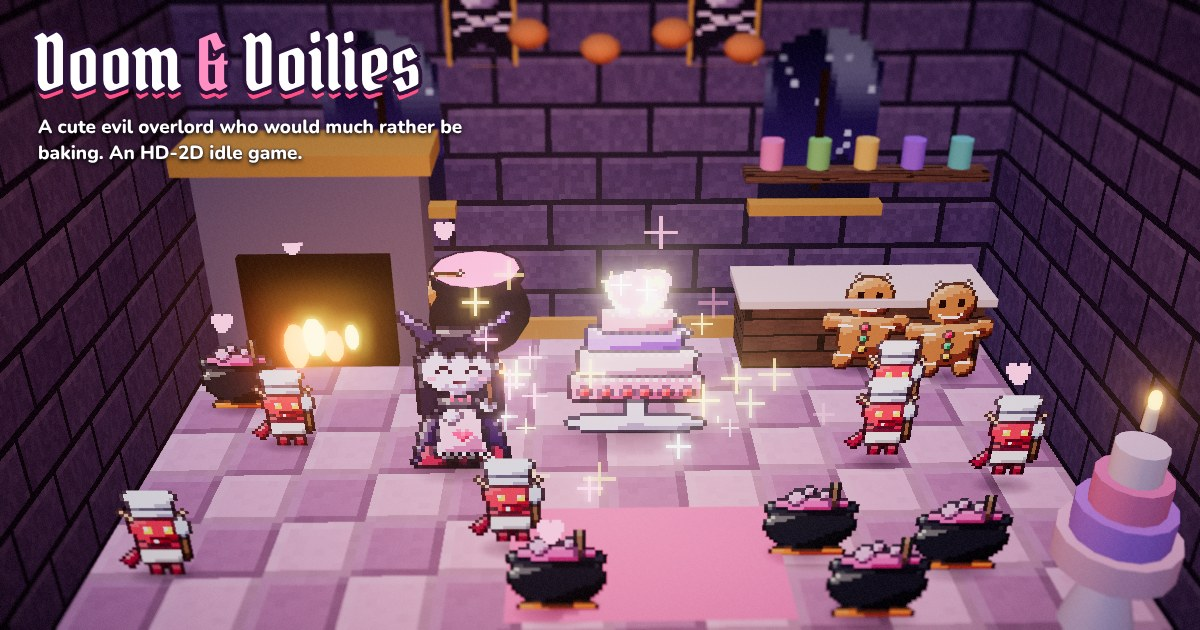
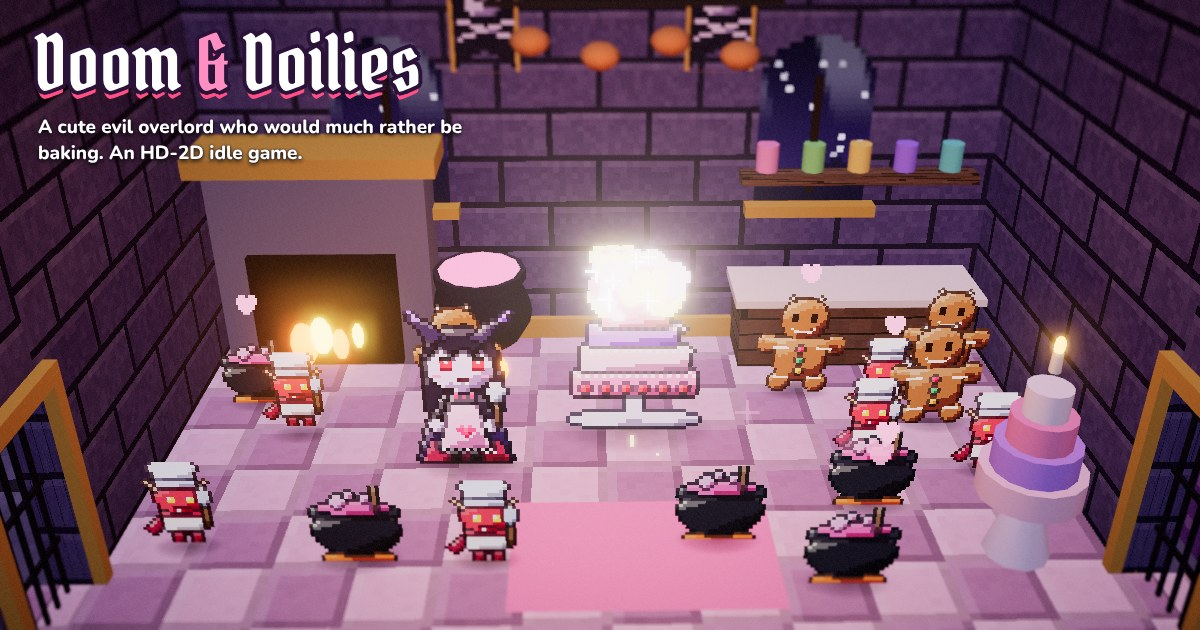
game-110 v1.0.2: visitors come and go through doorways, not walls
The rooms had no doors, and a visitor's starting point was worked out in the
Kitchen's coordinates, so in any other room they slid in from the far end of
the castle through every wall on the way.

Every side wall now has a doorway near the front, with a stone frame and a
portcullis; neighbouring rooms' doorways line up into one passage. Visitors
wait behind the next wall while the portcullis rises, walk in along a lane at
the front of the room, and leave the way they came. Front furniture and décor
moved back to keep the lane clear, and the camera frames a little more of
each room so both doorways show.

browsertest.mjs sweeps the biggest visitor along every lane against walls and
furniture, and follows a Ballroom visitor to check it stays in its room with
the gate up in the doorway; both fail without the fix.

Claude-Session: https://claude.ai/code/session_01Scowix7CJA1sqDPnfxaPEu

diff --git a/game-110/js/view/castle.js b/game-110/js/view/castle.js
@@ -12,6 +12,12 @@ import { makeSlots, SLOTS_PER_KIND } from './layout.js';
 export { SLOTS_PER_KIND };
 
 export const RW = 12, RD = 8, RH = 7, GAP = 13.5, T = 0.5;
+// Visitors walk along a lane near the front of the room, through a doorway in each side wall. The doorways of
+// neighbouring rooms line up, so the castle is one long passage; each has a portcullis that rises to let them by.
+export const LANE = 3.0;
+export const DOOR = { z0: LANE - 0.75, z1: LANE + 0.75, h: 2.7 };
+/** Where a visitor appears (outside the room, behind the next wall) and where it vanishes, in room-local x. */
+export const VISIT = { stand: 3.6, start: RW / 2 + T + 1.5, gone: RW / 2 + T + 1.8 };
 export const roomX = (i) => i * GAP;
 
 const WINDOW_VS = 'varying vec2 vUv; void main(){ vUv = uv; gl_Position = projectionMatrix * modelViewMatrix * vec4(position, 1.0); }';
@@ -79,7 +85,7 @@ export function buildCastle(lairId) {
     backdrop.material.map.wrapS = backdrop.material.map.wrapT = THREE.ClampToEdgeWrapping;
     const ground = plane(320, 120, lam({ color: pal.ground }), roomX(1.5), -2.6, -10, root);
     ground.rotation.x = -Math.PI / 2;
-    box(GAP * 4 + 1, 2.3, RD + 1, lam({ map: tex(px.stone, [10, 1]) }), roomX(1.5), -1.47, 0, root);   // its top sits under the floors, never level with them
+    box(GAP * 4 + 5, 2.3, RD + 1, lam({ map: tex(px.stone, [10, 1]) }), roomX(1.5), -1.47, 0, root);   // its top sits under the floors, never level with them
     const towerMat = lam({ map: tex(px.brick, [2, 6]), color: 0xb8b0c8 });
     const roofMat = lam({ color: pal.wall2 });
     for (const [x, w, h] of [[-9, 4, 15], [roomX(1.5), 5, 19], [roomX(3) + 9, 4, 14], [roomX(0.5), 3, 11], [roomX(2.5), 3, 12]]) {
@@ -109,7 +115,31 @@ export function buildCastle(lairId) {
             box(0.12, wh * 0.7, 0.06, darkWood, s * 3.2, wy - 0.2, -RD / 2 + T / 2 + 0.04, g);
         }
         box(RW, RH, T, wallMat, 0, RH / 2, -RD / 2, g);
-        for (const s of [-1, 1]) box(T, RH, RD, wallMat, s * (RW / 2 + T / 2), RH / 2, 0, g);
+        // the side walls, each with a doorway near the front and a portcullis in it
+        const walls = [], doors = [], frames = new THREE.Group();
+        const sideMat = (len, ht) => lam({ map: tex(wallTex, h.id === 'sew' ? [len / 1.2, ht / 1.2] : [len / 3, ht / 3]) });
+        const iron = lam({ color: 0x2a2632 });
+        for (const s of [-1, 1]) {
+            const wx = s * (RW / 2 + T / 2);
+            const back = DOOR.z0 + RD / 2, front = RD / 2 - DOOR.z1, wide = DOOR.z1 - DOOR.z0;
+            walls.push(box(T, RH, back, sideMat(back, RH), wx, RH / 2, -RD / 2 + back / 2, g));
+            walls.push(box(T, RH, front, sideMat(front, RH), wx, RH / 2, DOOR.z1 + front / 2, g));
+            walls.push(box(T, RH - DOOR.h, wide, sideMat(wide, RH - DOOR.h), wx, DOOR.h + (RH - DOOR.h) / 2, LANE, g));
+            // a threshold out to the middle of the gap between this room and the next (the next room lays the other half)
+            box(T + 0.25, 0.3, wide, lam({ map: tex(floorTex, [1, 1]) }), s * (RW / 2 + (T + 0.25) / 2), -0.15, LANE, g);
+            // a stone frame on the room side
+            const fx = s * (RW / 2 - 0.08);
+            for (const z of [DOOR.z0 - 0.09, DOOR.z1 + 0.09]) box(0.16, DOOR.h + 0.1, 0.18, trimMat, fx, (DOOR.h + 0.1) / 2, z, frames);
+            box(0.16, 0.22, wide + 0.36, trimMat, fx, DOOR.h + 0.1, LANE, frames);
+            // the portcullis: iron bars that rise into the wall above the doorway
+            const grate = new THREE.Group();
+            for (let z = DOOR.z0 + 0.12; z < DOOR.z1; z += 0.26) box(0.05, DOOR.h, 0.05, iron, 0, DOOR.h / 2, z, grate);
+            for (const y of [0.7, 1.5, 2.3]) box(0.05, 0.06, wide, iron, 0, y, LANE, grate);
+            grate.position.x = wx;
+            g.add(grate);
+            doors.push({ side: s, grate, open: 0, x: wx });
+        }
+        g.add(frames);
         box(RW, 0.35, 0.12, trimMat, 0, 0.17, -RD / 2 + T / 2 + 0.06, g);
         box(RW + T * 2, 0.3, 0.7, trimMat, 0, RH + 0.15, -RD / 2, g);   // a gilt cornice along the top of the back wall
         // battlements on top of the walls
@@ -133,7 +163,7 @@ export function buildCastle(lairId) {
             id: h.id, index: i, x: roomX(i), group: g, light, baseLight: 26, webs,
             station: new THREE.Vector3(roomX(i) + 0.4, 0, -0.9),
             overlord: new THREE.Vector3(roomX(i) - 1.9, 0, -0.1),
-            props, windows, slots: null,
+            props, windows, walls, doors, frames, slots: null,
         };
     });
 
@@ -141,7 +171,7 @@ export function buildCastle(lairId) {
     // minions stand where nothing else is: measure every piece of furniture, décor (bought or not) and window
     root.updateMatrixWorld(true);
     for (const r of rooms) {
-        r.blockers = [r.props, ...r.windows, ...Object.values(decor).flat().filter((o) => o.parent === r.group)];
+        r.blockers = [r.props, r.frames, ...r.windows, ...Object.values(decor).flat().filter((o) => o.parent === r.group)];
         r.obstacles = obstaclesOf(r);
         r.slots = makeSlots(r.index, r.obstacles, { RW, RD, RH, T });
     }
@@ -207,7 +237,7 @@ const FURNISH = {
         const cols = [0xff7ab0, 0xb48cff, 0x7fe0d0, 0xffd36b, 0x2a2236, 0xc02a52];
         cols.forEach((c, k) => { const b = cyl(0.26, 0.26, 0.85, lam({ color: c }), -5.1 + (k % 3) * 0.95 + 0.4, k < 3 ? 2.75 : 4.35, -3.3, g, 8); b.rotation.x = Math.PI / 2; });
         // yarn balls
-        [[-1.2, 2.6, 0xff6fa5], [4.6, 2.3, 0x9aff7a], [-4.8, 1.6, 0x7fb8ff], [2.8, -0.2, 0xffd36b]].forEach(([x, z, c]) => sphere(0.3, lam({ color: c }), x, 0.3, z, g, 8));
+        [[-1.2, 2.1, 0xff6fa5], [4.6, 1.9, 0x9aff7a], [-4.8, 1.4, 0x7fb8ff], [2.8, -0.2, 0xffd36b]].forEach(([x, z, c]) => sphere(0.3, lam({ color: c }), x, 0.3, z, g, 8));
         const rug = new THREE.Mesh(new THREE.CircleGeometry(1.8, 16), lam({ color: 0x8a5ab8 })); rug.rotation.x = -Math.PI / 2; rug.position.set(0.3, 0.02, 1.6); g.add(rug);
         candle(g, 4.6, 1.0, -2.4, flames);
     },
@@ -227,8 +257,8 @@ const FURNISH = {
         }
         // tall candelabras
         for (const x of [-4.9, -1.6]) {
-            cyl(0.08, 0.2, 2.2, darkWood, x, 1.1, 2.6, g, 6);
-            for (const dx of [-0.3, 0, 0.3]) candle(g, x + dx, 2.2, 2.6, flames, 0.3);
+            cyl(0.08, 0.2, 2.2, darkWood, x, 1.1, 2.1, g, 6);
+            for (const dx of [-0.3, 0, 0.3]) candle(g, x + dx, 2.2, 2.1, flames, 0.3);
         }
     },
     party(g, { px, tex, flames, trimMat, woodMat }) {
@@ -332,11 +362,11 @@ function buildDecor(rooms, { pal, px, tex, flames, trimMat, darkWood, woodMat })
     }
     {   // a fountain of bubbling punch
         const g = new THREE.Group();
-        cyl(1.0, 1.1, 0.5, lam({ color: 0xe8e0f0 }), -2.4, 0.25, 2.4, g, 14);
-        cyl(0.9, 0.9, 0.05, glow(0xff6fa5, 1.4), -2.4, 0.5, 2.4, g, 14);
-        cyl(0.12, 0.16, 1.2, lam({ color: 0xe8e0f0 }), -2.4, 1.0, 2.4, g, 8);
-        cyl(0.45, 0.3, 0.2, lam({ color: 0xe8e0f0 }), -2.4, 1.65, 2.4, g, 10);
-        const jet = sphere(0.22, glow(0xff8fc2, 1.8), -2.4, 1.95, 2.4, g, 8); jet.userData.bob = 1;
+        cyl(1.0, 1.1, 0.5, lam({ color: 0xe8e0f0 }), -2.6, 0.25, 1.6, g, 14);
+        cyl(0.9, 0.9, 0.05, glow(0xff6fa5, 1.4), -2.6, 0.5, 1.6, g, 14);
+        cyl(0.12, 0.16, 1.2, lam({ color: 0xe8e0f0 }), -2.6, 1.0, 1.6, g, 8);
+        cyl(0.45, 0.3, 0.2, lam({ color: 0xe8e0f0 }), -2.6, 1.65, 1.6, g, 10);
+        const jet = sphere(0.22, glow(0xff8fc2, 1.8), -2.6, 1.95, 1.6, g, 8); jet.userData.bob = 1;
         put('punch', 'party', g);
     }
     {   // the mirrorball of doom
@@ -351,14 +381,14 @@ function buildDecor(rooms, { pal, px, tex, flames, trimMat, darkWood, woodMat })
     {   // the grand cake display
         const g = new THREE.Group();
         const cols = [0xffd6e8, 0xc9a0ff, 0xff9ec7, 0xfff0f6];
-        for (let k = 0; k < 4; k++) cyl(0.62 - k * 0.12, 0.62 - k * 0.12, 0.36, lam({ color: cols[k] }), 5.2, 1.05 + k * 0.36, 2.9, g, 14);
-        cyl(0.15, 0.4, 0.9, lam({ color: 0xe8e0f0 }), 5.2, 0.45, 2.9, g, 10);
-        candle(g, 5.2, 2.5, 2.9, flames, 0.25);
+        for (let k = 0; k < 4; k++) cyl(0.62 - k * 0.12, 0.62 - k * 0.12, 0.36, lam({ color: cols[k] }), 4.9, 1.05 + k * 0.36, 1.8, g, 14);
+        cyl(0.15, 0.4, 0.9, lam({ color: 0xe8e0f0 }), 4.9, 0.45, 1.8, g, 10);
+        candle(g, 4.9, 2.5, 1.8, flames, 0.25);
         put('cakestand', 'cook', g);
     }
     {   // a parade of mannequins
         const g = new THREE.Group();
-        [[-4.6, 2.4, 0x2a1630], [-3.4, 2.9, 0xc02a52], [4.8, 2.6, 0x3a5aa8]].forEach(([x, z, c]) => {
+        [[-4.6, 1.6, 0x2a1630], [-3.4, 2.0, 0xc02a52], [4.8, 1.7, 0x3a5aa8]].forEach(([x, z, c]) => {
             cyl(0.05, 0.05, 0.8, darkWood, x, 0.4, z, g, 5);
             const dress = new THREE.Mesh(new THREE.ConeGeometry(0.6, 1.6, 8), lam({ color: c })); dress.position.set(x, 1.5, z); g.add(dress);
             cyl(0.25, 0.3, 0.6, lam({ color: c }), x, 2.5, z, g, 8);

diff --git a/game-110/js/view/view.js b/game-110/js/view/view.js
@@ -6,9 +6,10 @@
 
 import * as THREE from 'three';
 import { Stage } from './stage.js';
-import { buildCastle, RW, RH, RD, GAP, roomX, SLOTS_PER_KIND } from './castle.js';
+import { buildCastle, RW, RH, RD, GAP, T, roomX, SLOTS_PER_KIND, LANE, VISIT } from './castle.js';
 import { SpriteLib } from './sprites.js';
 import { Particles, Rings, Billboard, SHAPE } from './fx.js';
+import { SPRITE_SCALE } from './art.js';
 import { HOBBIES, HOBBY, MINIONS, LAIRS, DECOR_BY } from '../sim/data.js';
 import { masteryLevel } from '../sim/game.js';
 import { fmt } from '../fmt.js';
@@ -233,7 +234,8 @@ export class View {
         const side = v?.side || 1;
         const bb = new Billboard(this.sprites.visitor(e.kind), { emissive: 0.6, scale: e.kind === 'kitten' ? 1.3 : 1.1 });
         this.scene.add(bb.group);
-        this.visitors.set(e.vid, { vid: e.vid, kind: e.kind, bb, side, x: side * (RW / 2 + 1), state: 'in', t: 0, react: 0 });
+        // x is room-local: the visitor waits behind the next wall while the portcullis rises, then walks in
+        this.visitors.set(e.vid, { vid: e.vid, kind: e.kind, bb, side, x: side * VISIT.start, state: 'in', t: 0, react: 0, wait: 0.7 });
     }
     onGreet(G, e) {
         const a = this.visitors.get(e.vid);
@@ -249,7 +251,7 @@ export class View {
     dismiss(vid, gossip) {
         const a = this.visitors.get(vid);
         if (!a) return;
-        a.state = 'out'; a.react = 0.8; a.t = 0;
+        a.state = 'out'; a.react = 0.9; a.t = 0;
         if (gossip) { const p = a.bb.group.position; const s = this.toScreen(p.clone().setY(2.8)); this.floater('“Doilies?!”', s.x, s.y, 'gossip'); }
     }
 
@@ -294,6 +296,34 @@ export class View {
         for (const id in this.minions) for (const bb of this.minions[id]) if (bb.pop < 1) return false;
         for (const id in this.castle.decor) for (const o of this.castle.decor[id]) if (o.visible && (o.userData.pop ?? 1) < 1) return false;
         return true;
+    }
+
+    /** Every place along the visitors' lane where the biggest visitor would pass through a wall or touch furniture (for the tests). */
+    laneReport() {
+        const out = [], a = new THREE.Box3(), b = new THREE.Box3();
+        this.scene.updateMatrixWorld(true);
+        const e = this.sprites.visitor('hero'), w = e.w * SPRITE_SCALE * 1.1, h = e.h * SPRITE_SCALE * 1.1;
+        const walls = this.castle.rooms.flatMap((r) => r.walls);
+        for (const r of this.castle.rooms) {
+            const things = [...walls, ...r.blockers.filter((o) => o.visible)];
+            for (const side of [-1, 1]) {
+                for (let x = VISIT.stand; x <= VISIT.gone; x += 0.1) {
+                    const wx = r.x + side * x;
+                    a.min.set(wx - w / 2, 0.05, LANE - 0.05);
+                    a.max.set(wx + w / 2, h + 0.15, LANE + 0.05);
+                    for (const o of things) {
+                        o.traverse((m) => {
+                            if (!m.isMesh || !m.visible) return;
+                            b.setFromObject(m);
+                            if (b.max.y < 0.1 || !a.intersectsBox(b)) return;
+                            const c = b.getCenter(new THREE.Vector3());
+                            out.push(`the ${r.id} room's ${side < 0 ? 'left' : 'right'} lane at x ${(side * x).toFixed(1)} hits a box at (${(c.x - r.x).toFixed(1)}, ${c.y.toFixed(1)}, ${c.z.toFixed(1)})`);
+                        });
+                    }
+                }
+            }
+        }
+        return [...new Set(out)];
     }
 
     /** Every minion sprite that intersects a piece of furniture, décor or a window it isn't meant to touch (for the tests). */
@@ -352,7 +382,7 @@ export class View {
         const cam = this.camera;
         // ----- camera
         let tx, ty, width;
-        if (this.overview) { tx = roomX(1.5); ty = 2.6; width = GAP * 4 + 1; } else { tx = this.roomOf(this.focus).x; ty = 2.1; width = RW + 1.2; }
+        if (this.overview) { tx = roomX(1.5); ty = 2.6; width = GAP * 4 + 1; } else { tx = this.roomOf(this.focus).x; ty = 2.1; width = RW + 3; }   // wide enough to show both side doorways
         const tanV = Math.tan((cam.fov * Math.PI) / 360);
         const distW = (width / 2) / (tanV * (this.freeW / this.h));
         const distH = ((this.overview ? RH + 3 : RH + 0.6) / 2) / (tanV * (this.freeH / this.h));
@@ -451,20 +481,24 @@ export class View {
             if (!o.userData.spin) o.scale.setScalar(s);
         }
 
-        // ----- visitors walk in, wait with a ‘!’, and leave
+        // ----- visitors come through a side door, wait with a ‘!’, and leave the way they came
         for (const [vid, a] of this.visitors) {
             a.t += dt;
-            const baseX = room.x, sideX = a.side * 3.6;
-            let x = a.x;
-            if (a.state === 'in') { x = ease(a.x, baseX + sideX, Math.min(1, dt * 2.5)); if (Math.abs(x - (baseX + sideX)) < 0.05) a.state = 'stay'; }
-            else if (a.state === 'out') {
+            let walking = false;
+            if (a.state === 'in') {
+                a.wait -= dt;
+                if (a.wait <= 0) {
+                    const to = a.side * VISIT.stand, d = to - a.x;
+                    a.x += Math.sign(d) * Math.min(Math.abs(d), dt * 3.2);
+                    walking = true;
+                    if (Math.abs(to - a.x) < 1e-3) a.state = 'stay';
+                }
+            } else if (a.state === 'out') {
                 a.react -= dt;
-                if (a.react <= 0) x = a.x + a.side * dt * (a.kind === 'hero' ? 9 : 4);
-                if (Math.abs(x - baseX) > RW / 2 + 1.5) { a.bb.group.parent?.remove(a.bb.group); a.bb.dispose(); this.visitors.delete(vid); continue; }
-            } else if (a.x === undefined) x = baseX + sideX;
-            a.x = x;
-            const walking = a.state !== 'stay' && !(a.state === 'out' && a.react > 0);
-            a.bb.group.position.set(x, 0, 1.9);
+                if (a.react <= 0) { a.x += a.side * dt * (a.kind === 'hero' ? 7 : 3.2); walking = true; }
+                if (Math.abs(a.x) > VISIT.gone) { a.bb.group.parent?.remove(a.bb.group); a.bb.dispose(); this.visitors.delete(vid); continue; }
+            }
+            a.bb.group.position.set(room.x + a.x, 0, LANE);
             a.bb.inner.position.y = walking ? Math.abs(Math.sin(a.t * 10)) * 0.12 : (a.state === 'stay' ? Math.abs(Math.sin(a.t * 3)) * 0.05 : 0);
             a.bb.inner.rotation.y = yaw;
             a.bb.inner.scale.x = (a.state === 'out' && a.react <= 0 ? a.side : -a.side) * Math.abs(a.bb.inner.scale.x || 1);
@@ -472,6 +506,18 @@ export class View {
                 const p = a.bb.group.position;
                 this.particles.add({ x: p.x, y: a.bb.h + 0.3, z: p.z, vy: 0.6, life: 0.8, size: 12, color: a.kind === 'hero' ? 0xff3b5c : 0xffe36a, glow: 2.2, shape: SHAPE.star, grav: 0 });
             }
+        }
+        // portcullises rise for anyone coming in or going out through them, and drop behind them
+        for (const r of this.castle.rooms) for (const d of r.doors) {
+            const dx = r.x + d.x;
+            let want = 0;
+            for (const a of this.visitors.values()) {
+                if (a.state === 'stay') continue;
+                const doorX = room.x + a.side * (RW / 2 + T / 2);
+                if (Math.abs(dx - doorX) < 1.2) want = 1;
+            }
+            d.open += Math.sign(want - d.open) * Math.min(Math.abs(want - d.open), dt * 2.4);
+            d.grate.position.y = d.open * (2.75);
         }
 
         // ----- lights, flames, windows, sky

diff --git a/js/gamedata.js b/js/gamedata.js
@@ -1671,7 +1671,7 @@ const games = [
         description: "An HD-2D idle game in three.js about the Dread Lady Noxia, a cute evil overlord who would much rather be baking, sewing, decorating and throwing parties, if only the kingdom didn't expect her to be terrifying. Pixel-art sprites stand in a lit 3D castle cut open like a dollhouse, seen through a tilt-shift lens: a Kitchen, a Sewing Loft, a Great Hall and a Ballroom. Click the castle to craft charm (quick clicks build flow), hire twelve minions who fill their rooms as you buy them (imp sous-chefs, bubbling cauldrons, gingerbread golems, spider seamstresses, haunted looms, a bat-wing atelier, gargoyle florists, candle wraiths, living portraits, a skeleton quartet, mimic buffets and a lich party planner) and buy 147 upgrades, from doublings and room synergies to the Ladle of the Abyss. The catch is Dread, your reputation: it fades, faster the cosier the castle gets, so you Cackle to keep it up. Feared and Dreaded overlords make more charm and collect gold in tribute, the sky in the windows turns from stormy night to rainbows as it slips, and a Suspected overlord gets heroes at the gate who must be frightened off before they see the doilies. Kittens, food critics and bards drop by with frenzies; Taste Test, Thunderstorm and Grand Soir\u00e9e are abilities to unlock. Gold buys twelve pieces of d\u00e9cor that appear in the castle and henchmen who run schemes: evil ones for dread and gold, secret commissions for the Overlord's anonymous craft shop that bring charm and twelve family heirlooms. Each room has a mastery level and a centrepiece that grows with it. When the heroes get close, relocate to one of five lairs (a volcano, an ice spire, a swamp manor, a floating citadel) for legend to spend in the Grimoire. Eighty-nine trophies, a gossip ticker, minions that keep working while you're away, a music-box waltz that turns to a minor key when you're feared, and every sprite and sound made in code. Mouse, keyboard, gamepad or touch.",
         icon: '\uD83E\uDDC1',
         folder: 'game-110',
-        version: '1.0.1',
+        version: '1.0.2',
         cssClass: 'doom-doilies',
         genre: 'cozy',
         tags: [

diff --git a/game-110/js/view/layout.js b/game-110/js/view/layout.js
@@ -52,7 +52,7 @@ export function makeSlots(hobbyIndex, obstacles, { RW, RD, RH, T }) {
             } else {
                 const sway = (MOTION[m.id] || [0])[0];
                 x = -RW / 2 + 0.3 + S.w / 2 + sway + r1 * (RW - 0.6 - S.w - sway * 2);
-                z = mode === 'back' ? -2.9 + r2 * 2.2 : mode === 'hang' ? -2.6 + r2 * 2.6 : -2.4 + r2 * 5.2;
+                z = mode === 'back' ? -2.9 + r2 * 2.2 : mode === 'hang' ? -2.6 + r2 * 2.6 : -2.4 + r2 * 4.8;   // clear of the visitors' lane at the front
                 y = mode === 'air' ? 2.6 + r3 * 1.8 : mode === 'hang' ? 3.6 + r3 * 1.4 : 0;
             }
             const box = spriteBox(m.id, x, y, z);

diff --git a/game-110/js/config.js b/game-110/js/config.js
@@ -1,6 +1,6 @@
 // Doom & Doilies — tuning and constants. Shared by the sim, the view and the tests.
 
-export const VERSION = '1.0.1';
+export const VERSION = '1.0.2';
 export const SAVE_KEY = 'doom-and-doilies.v1';
 
 // An idle game needs no physics: a 30 Hz step is plenty, and a long frame may run up to a tenth of a second

diff --git a/status.md b/status.md
@@ -114,7 +114,7 @@ Completion audit of all games in this repo, based on each game's own game-plan.m
 | [game-107](game-107/index.html) | Kaiju Roll | **Solid** | v1.3.0 (a news reporter and a military commander speak and are captioned; v1.2.0 a choice of reptile, monkey or robot; v1.1.0 cel shading: toon ramp and depth-based ink outlines, with a Settings switch). Katamari × Breakout × Rampage in three.js with no asset files: a kaiju ball that never stops rolling and bounces off buildings, floor-by-floor demolition with rubble, swallowing things to grow (radius = cube root of the volume, so a big ball crushes houses instead of bouncing), a pounce with a shockwave that also swats helicopters and dodges shells, tanks, helicopters and bomber runs, power-ups, chains, five seeded cities (river, bridges with cables, ferris wheel, whimsical rooftops) proved reachable, perks between cities, saves and a best score. A pure seeded sim ([js/sim/](game-107/js/sim/)) and a bot that balances it; procedural models, window textures, effects and a per-city look-ahead music sequencer that adds layers as the city falls. [simtest.mjs](game-107/dev/simtest.mjs) checks purity, 40 cities, every rule, determinism and saves mid-fight, and bot games at three skills; [browsertest.mjs](game-107/dev/browsertest.mjs) drives desktop, two touch-only phones and blocked storage; [gallery.html](game-107/dev/gallery.html) shows every model. Open: balance is bot-derived (the perfect bot clears a city in 45-115 s, a person will be slower), nobody has played it by hand on a real GPU or phone or listened to the audio; no boss, no meta-progression beyond the gifts. |
 | [game-108](game-108/index.html) | Oathstones | **Solid** | v1.0.0. A fantasy match-3 RPG in three.js with no asset files where every token keeps its own oath: eleven line rules (Kinship, Form, Twinned, Prism, Motley, Host, Cascade, Crossroads, Ring, Vigil, Fool) checked token by token, so a line clears only when everyone in it is content. 21 heroes stand on the board as tokens; summoned heroes are called to the next board rather than handed over, bind nearby stones to their oath when they arrive, and join the roster (or rank up) when their oath is fulfilled. Party skills charged by colour, element advantage, 18 stages in five regions with board-changing enemies (petrify, freeze, hex, blight, bind, scramble, drain), a calling with pity, levels and ranks, saves mid-battle. A pure turn-based sim ([js/sim/](game-108/js/sim/)) driven by `act()` commands and a cascade-aware bot; real cut-gem geometry with a patched physical material, a shader sky over a floating island, bloom and a grade pass, procedural chibi heroes and monsters, rendered portraits, generated music. [simtest.mjs](game-108/dev/simtest.mjs) checks purity, every oath, the rules, 540 dealt boards, determinism and a mid-battle save, and bot campaigns at two skills; [browsertest.mjs](game-108/dev/browsertest.mjs) drives desktop clicks and keys, two touch-only phones with real swipes and blocked storage; [gallery.html](game-108/dev/gallery.html) shows every model. Open: balance is bot-derived (the good bot finishes in about 21 battles with about 2 defeats; a person who aims for heroes will bind more), nobody has played it by hand on a real GPU or phone or listened to the music; no post-game mode beyond replays. |
 | [game-109](game-109/index.html) | STARBLAZER '86 | **Solid** | v1.3.0 (v1.1 a robot boss announcer, v1.2 a mothership hangar with credits and permanent upgrades, v1.3 a story: Mira, a flight controller who briefs every wave, with six cutscenes). A vertical 8-bit arcade space shooter in Canvas 2D with no asset files: a 224×288 pixel buffer with hand-drawn half-sprites mirrored and outlined in four sector colourways, a bitmap font, bloom, scanlines and a neon frame. Hold fire through waves built from timed pieces that unlock as you go (swooping lines, V and pincer waves, a Galaga grid that sways and dives, a Space-Invaders march, saucers, homing darts, cruisers, drone-launching carriers, mines that burst into rings), a no-fire bonus stage every fourth wave, and a boss every fifth (Mothership, Crab Warden with spirals and curtains, the Overlord with a telegraphed death-ray) that comes back tougher; a five-level gun, speed, bombs, shields, medals, kill chains, extra lives, a high-score table with initials, saves. Explosions are layered fireballs that walk down a colour ramp, shockwave rings, debris and rainbow chains, with a calm mode. A pure seeded sim ([js/sim/](game-109/js/sim/)) and a reaction-time bot that balances it and plays the attract demo behind the title; a chiptune sequencer (pulse duty cycles, triangle bass, noise drums) with a key per sector and tunes for bosses and bonus stages. [simtest.mjs](game-109/dev/simtest.mjs) checks purity, every rule, 60 planned waves over five seeds, that a bot who cannot be hurt clears waves 1-40, every boss from entrance to payout, determinism and saves mid-formation and mid-boss, and bot games at three skills; [browsertest.mjs](game-109/dev/browsertest.mjs) drives desktop with real keys, two touch-only phones with real touches and blocked storage, and checks the canvas is really drawing; [sprites.html](game-109/dev/sprites.html) shows every sprite and entry curve. Open: balance is bot-derived (the perfect bot reaches wave 47 and survives 25 minutes because it sees every bullet; the 0.6 bot dies around wave 16, the 0.3 bot around wave 9, a person will land between), nobody has played it by hand on a real phone or listened to the music, and the endless wave generator has no ending. |
-| [game-110](game-110/index.html) | Doom & Doilies | **Solid** | v1.0.1 (minions no longer stand inside furniture: slots are kept clear of every measured piece of furniture, décor and window, checked in the browser test). v1.0.0. An HD-2D idle clicker in three.js r165 with no asset files: a cute evil overlord who loves cooking, sewing, decorating and entertaining must keep up appearances. A pure seeded sim ([js/sim/](game-110/js/sim/)): crafting with flow, twelve minions in four hobby rooms, 147 upgrades (doublings, room mastery, synergies, crafting, dread, visitors, abilities, offline), a dread meter with four tiers that fades faster the cosier the castle and sets the charm multiplier and gold tribute, cackling, four visitors (kitten frenzy, critic lump, bard encore, a hero to scare off before he gossips), three unlockable abilities, twelve décor pieces bought with gold, henchmen and a scheme board (evil schemes, secret commissions with twelve heirlooms), room mastery, 89 trophies, relocation to five lairs for legend and a thirteen-perk Grimoire, and time away as the same rules at an offline rate with a cap. The view: procedural pixel sprites (the Overlord in three poses with a tool per room, twelve minions, four visitors, centrepieces that grow with mastery) as lit billboards in a dollhouse castle with pixel-textured rooms per lair, windows whose sky turns from storm to rainbow with dread, flickering hearths and candles, décor that appears and moves, a particle system of pixel hearts, notes, stars and smoke, shockwave rings, tilt-shift, bloom and a dread colour grade; a DOM shop that never rebuilds under a finger; a generative music-box waltz that turns minor when you're feared. [simtest.mjs](game-110/dev/simtest.mjs) (purity, every rule, offline time, determinism and save round trips, old saves, and an 8-hour balance table for an attentive, a casual and an idle bot) and [browsertest.mjs](game-110/dev/browsertest.mjs) (desktop by real mouse and keys through crafting, buying, cackling, visitors, every tab, rooms, the overview, the menu, save and continue, and a relocation; a fresh page with a two-hour-old save; touch-only phones in both orientations; blocked storage); [sprites.html](game-110/dev/sprites.html) shows every sprite. Open: the pacing comes from the bot table (first relocation at about 1.6 hours for an attentive player, 2.3 for a casual one, 7 for one who checks in every ten minutes); nobody has played it by hand or heard the music, it has only run under SwiftShader, and there is no ending (it is an idle game) |
+| [game-110](game-110/index.html) | Doom & Doilies | **Solid** | v1.0.2 (visitors come and go through doorways with portcullises instead of through walls). v1.0.1 (minions no longer stand inside furniture: slots are kept clear of every measured piece of furniture, décor and window, checked in the browser test). v1.0.0. An HD-2D idle clicker in three.js r165 with no asset files: a cute evil overlord who loves cooking, sewing, decorating and entertaining must keep up appearances. A pure seeded sim ([js/sim/](game-110/js/sim/)): crafting with flow, twelve minions in four hobby rooms, 147 upgrades (doublings, room mastery, synergies, crafting, dread, visitors, abilities, offline), a dread meter with four tiers that fades faster the cosier the castle and sets the charm multiplier and gold tribute, cackling, four visitors (kitten frenzy, critic lump, bard encore, a hero to scare off before he gossips), three unlockable abilities, twelve décor pieces bought with gold, henchmen and a scheme board (evil schemes, secret commissions with twelve heirlooms), room mastery, 89 trophies, relocation to five lairs for legend and a thirteen-perk Grimoire, and time away as the same rules at an offline rate with a cap. The view: procedural pixel sprites (the Overlord in three poses with a tool per room, twelve minions, four visitors, centrepieces that grow with mastery) as lit billboards in a dollhouse castle with pixel-textured rooms per lair, windows whose sky turns from storm to rainbow with dread, flickering hearths and candles, décor that appears and moves, a particle system of pixel hearts, notes, stars and smoke, shockwave rings, tilt-shift, bloom and a dread colour grade; a DOM shop that never rebuilds under a finger; a generative music-box waltz that turns minor when you're feared. [simtest.mjs](game-110/dev/simtest.mjs) (purity, every rule, offline time, determinism and save round trips, old saves, and an 8-hour balance table for an attentive, a casual and an idle bot) and [browsertest.mjs](game-110/dev/browsertest.mjs) (desktop by real mouse and keys through crafting, buying, cackling, visitors, every tab, rooms, the overview, the menu, save and continue, and a relocation; a fresh page with a two-hour-old save; touch-only phones in both orientations; blocked storage); [sprites.html](game-110/dev/sprites.html) shows every sprite. Open: the pacing comes from the bot table (first relocation at about 1.6 hours for an attentive player, 2.3 for a casual one, 7 for one who checks in every ten minutes); nobody has played it by hand or heard the music, it has only run under SwiftShader, and there is no ending (it is an idle game) |
 
 ## Key takeaways
 

diff --git a/game-110/dev/README.md b/game-110/dev/README.md
@@ -5,7 +5,7 @@ Plain Node scripts, no build step, no test framework. Run from the repo root.
 | Command | What it does |
 |---|---|
 | `node game-110/dev/simtest.mjs` | Headless, in Node. **purity**: `js/sim/`, `js/rng.js`, `js/config.js`, `js/fmt.js` and `js/news.js` never touch the DOM, a renderer, storage, `Math.random` or the clock. **layout**: minion slots stay clear of a kitchen counter and hearth, fit in every room, and are the same every time. **rules**: crafting and flow, minion prices and Max, upgrades (every one reachable and buyable), dread and its four tiers, cackling, all four visitors, the three abilities, décor, henchmen, schemes, heirlooms (all twelve findable), mastery, trophies, relocation and perks, the ticker and number formatting. **away**: time away at the offline rate, the cap, upgrades that raise both, schemes finishing while away, a day in under a second. **determinism**: same seed and commands → same game; a save round trip plays on identically; an unknown version is rejected; an old save missing fields loads. **bot**: an attentive, a casual and an idle bot each play `HOURS` hours with per-step invariants and print the balance table. `ONLY=purity,layout,rules,away,determinism,bot`, `HOURS=n` (default 8), `VERBOSE=1`. |
-| `node game-110/dev/browsertest.mjs` | Real Chromium + WebGL (SwiftShader). **desktop**: title, back link and a title that fits; real mouse clicks on the castle craft; Space crafts; a panel row buys, and Space afterwards still crafts; C and the Cackle button cackle; a visitor greeted by a click on the sprite and another through the callout; every tab; an upgrade bought by two taps on its tile; décor appears in the castle; a henchman hired and sent on a scheme; Q/E, room buttons, Tab for the whole castle and a click on a room there; the menu (the castle keeps working behind it); Save & Quit → Continue; relocating through the Lair tab's confirm sheet, and the view moving house. **furniture**: seven of every minion and every piece of décor at once, and no minion sprite intersects furniture, décor or a window (`__dd.view.clipReport()`). **away**: a fresh page whose save is two hours old shows the welcome-back sheet. **phones** (touch only, real touches) at 390×844 and 844×390: taps craft and buy, the Cackle button, every control ≥ 44 px and on screen, abilities, rooms, HUD and panel don't overlap, the visitor callout, the menu stays open after the finger lifts. **nostorage**: boots and plays with `localStorage` throwing. Fails on any console error, page error or failed request. `ONLY=desktop,furniture,away,phones,nostorage`. Screenshots in `dev/shots/`. |
+| `node game-110/dev/browsertest.mjs` | Real Chromium + WebGL (SwiftShader). **desktop**: title, back link and a title that fits; real mouse clicks on the castle craft; Space crafts; a panel row buys, and Space afterwards still crafts; C and the Cackle button cackle; a visitor greeted by a click on the sprite and another through the callout; every tab; an upgrade bought by two taps on its tile; décor appears in the castle; a henchman hired and sent on a scheme; Q/E, room buttons, Tab for the whole castle and a click on a room there; the menu (the castle keeps working behind it); Save & Quit → Continue; relocating through the Lair tab's confirm sheet, and the view moving house. **furniture**: seven of every minion and every piece of décor at once, and no minion sprite intersects furniture, décor or a window (`__dd.view.clipReport()`); the visitors' lane goes through doorways, never walls or furniture (`__dd.view.laneReport()`); a Ballroom visitor stays in the Ballroom and passes the doorway only with the portcullis up. **away**: a fresh page whose save is two hours old shows the welcome-back sheet. **phones** (touch only, real touches) at 390×844 and 844×390: taps craft and buy, the Cackle button, every control ≥ 44 px and on screen, abilities, rooms, HUD and panel don't overlap, the visitor callout, the menu stays open after the finger lifts. **nostorage**: boots and plays with `localStorage` throwing. Fails on any console error, page error or failed request. `ONLY=desktop,furniture,away,phones,nostorage`. Screenshots in `dev/shots/`. |
 | `node game-110/dev/play.mjs name "js" [waitMs] [w h] [touch]` | Opens the game with `?debug=1`, runs a snippet (`return` prints a value), screenshots to `dev/shots/name.png`. |
 | `game-110/dev/sprites.html` | Every sprite (the Overlord's twelve pose/tool frames, the minions, visitors, henchman and the sixteen centrepieces) at 4× on a neutral grey, for judging the art before it goes under candlelight and bloom. Open it through the static server. |
 | `node game-110/dev/preview.mjs` | Sets up a busy Ballroom through the debug hooks and writes `garden/img/games/game-110.jpg`, the 1200×630 preview for the launcher. |

diff --git a/game-110/game-plan.md b/game-110/game-plan.md
@@ -2,7 +2,7 @@
 
 **Genre:** Idle clicker / incremental, with RPG trimmings
 **Engine:** three.js r165, no asset files
-**Status:** v1.0.1
+**Status:** v1.0.2
 
 ---
 
@@ -117,7 +117,7 @@ There is no ending; it is an idle game. The story is told in flavour: minion and
 ## Look and sound
 
 - **Sprites** ([art.js](js/view/art.js)): painted in code with game-093's volumetric pixel painter (hue-shifted ramps, contact lines, selective outlines). The Overlord in three poses (idle, craft with happy closed eyes, cackle with arms high and cape flared) with a tool for each room (whisk, needle and thread, feather duster, teacup); twelve minions; four visitors; a goblin henchman; sixteen centrepieces.
-- **The castle** ([castle.js](js/view/castle.js), [tex.js](js/view/tex.js)): four rooms 12 × 8 × 7 with pixel textures per room (bricks and pink-cream checks; striped wallpaper and planks; stone and flagstones with a carpet runner; panelling and black-and-white marble), re-coloured per lair; arched windows with a shader sky; a hearth, counters, jars and copper pots; a sewing table and bolts of fabric; a fireplace, portraits and candelabras; a stage with curtains, a buffet and string lights; battlements, towers and mountains outside.
+- **The castle** ([castle.js](js/view/castle.js), [tex.js](js/view/tex.js)): four rooms 12 × 8 × 7, joined by doorways with portcullises in their side walls, with pixel textures per room (bricks and pink-cream checks; striped wallpaper and planks; stone and flagstones with a carpet runner; panelling and black-and-white marble), re-coloured per lair; arched windows with a shader sky; a hearth, counters, jars and copper pots; a sewing table and bolts of fabric; a fireplace, portraits and candelabras; a stage with curtains, a buffet and string lights; battlements, towers and mountains outside.
 - **Effects** ([fx.js](js/view/fx.js)): one point-sprite system drawing pixelated hearts, notes, stars, coins and smoke; shockwave rings; floaters in the DOM.
 - **Post** ([stage.js](js/view/stage.js)): tilt-shift focused on the free area, bloom on flames and glows, a grade that follows dread, a little grain. Three quality levels and a calm mode.
 - **Sound** ([audio.js](js/audio.js)): a music-box waltz with pizzicato bass and a pad, C major when cosy and A minor when feared; crafting pops on a pentatonic scale that climbs with flow, a timbre per room; a formant cackle; doorbell, meow, fanfare, sad trombone, thunder, coins, chimes.
@@ -161,6 +161,9 @@ From the bot table (seed 9001, eight hours each):
 - A sixth hobby (gardening?), seasonal events, and a portrait of Noxia for the welcome-back sheet.
 
 ## Changelog
+
+### v1.0.2 (2026-10-30)
+- Fixed: visitors walked through walls. The rooms had no doors, and a visitor's starting point was worked out in the Kitchen's coordinates, so in any other room they slid in from the far side of the castle, through every wall on the way. Every side wall now has a doorway near the front with a stone frame and a portcullis, the doorways of neighbouring rooms line up into one passage, and visitors wait behind the next wall while the portcullis rises, walk in along a lane at the front of the room, and leave the way they came, the gate dropping behind them. Furniture and décor at the front were moved back to keep the lane clear, and the camera shows a little more of each room so both doorways are in shot ([castle.js](js/view/castle.js), [view.js](js/view/view.js)).
 
 ### v1.0.1 (2026-10-30)
 - Fixed: a gingerbread golem could stand inside the kitchen counter (and, in other rooms, minions inside the hearth, the sewing table, the stage or the organ, and portraits over a window). Minion spots were scattered without knowing where the furniture was. The castle now measures every piece of furniture, décor and window in each room and keeps every spot clear of them, with room for each minion's bob, hop or flutter ([layout.js](js/view/layout.js), [castle.js](js/view/castle.js)).

diff --git a/docs/generic/learnings.md b/docs/generic/learnings.md
@@ -6395,4 +6395,5 @@ reusing:
 - **A per-item field read from the wrong table is NaN, silently.** `MINION[id]` (a lookup built with `index`) and `MINIONS` (the array) look alike; an animation phase read `m.index` from the array, every minion's world position became NaN, and only their blob shadows (positioned by the group, not the NaN child) showed. The same slip in `minionVisible` hid the first minion until 6 charm had been made. Check `getWorldPosition()` when a sprite is missing but its shadow isn't.
 - **`waitForFunction` fails on the first throw.** A predicate like `!document.querySelector(x).classList.contains('no')` throws while `x` doesn't exist yet, and Playwright rejects instead of retrying. Write predicates that return falsy for a missing element (`document.querySelector('x:not(.no)')`).
 - **Place sprites from the furniture's own boxes, not from a list you keep by hand (v1.0.1).** Minion slots were scattered with a hash and a keep-out zone for the centrepiece, and a gingerbread golem's back-row slot landed inside the kitchen counter. Now `castle.js` builds the room first, then measures every mesh in its furniture, its décor (bought or not) and its windows with `Box3.setFromObject`, and `layout.js` (pure, so Node tests it) keeps a slot only if the sprite's box, grown by its bob or flutter, touches none of them; a wall portrait also claims the wall in front of it, so nothing hides it. The browser test buys everything and runs `view.clipReport()`, which intersects every real sprite with every visible mesh; it fails without the fix. Its first run caught something else: décor popped in by scaling about the room's origin, sliding outwards; recentre a group over its own footprint before animating its scale.
+- **Anything that walks needs a way through, and a path in the right coordinates (v1.0.2).** Visitors walked in "from outside" by starting beyond a side wall, so they passed through it; and the start was a room-local x stored as a world x, so in any room but the first they slid across the whole castle first. Neither showed in the tests, which only checked that a visitor arrived and could be clicked. Now every side wall is built in three pieces around a doorway on the visitors' lane, with a portcullis the view raises while someone is in it, and visitors keep a room-local x that is turned into a world position every frame. `view.laneReport()` sweeps the biggest visitor's box along every room's lane against every wall and visible piece of furniture, and the browser test follows a visitor in the last room and checks it never leaves.
 - **Coplanar foundations z-fight.** The stone plinth under the rooms had its top exactly at floor level; in the gloomy first lair it was invisible, in the bright Caldera it striped the floor. Sink anything that sits under a floor a few centimetres below it.

diff --git a/CHANGELOG.md b/CHANGELOG.md
@@ -8,6 +8,7 @@ and this project adheres to [Semantic Versioning](https://semver.org/spec/v2.0.0
 ## [Unreleased]
 
 ### Fixed
+- **Doom & Doilies** (game-110) v1.0.2: visitors walked through walls. The rooms had no doors, and a visitor's starting point was worked out in the Kitchen's coordinates, so in the Sewing Loft, Great Hall or Ballroom they slid in from the far end of the castle through every wall on the way. Every side wall now has a doorway near the front with a stone frame and a portcullis; the doorways of neighbouring rooms line up into one passage; visitors wait behind the next wall while the portcullis rises, walk in along a lane at the front of the room and leave the way they came, and the gate drops behind them. Front furniture and décor moved back to keep the lane clear, and the camera frames a little more of each room so both doorways show ([castle.js](game-110/js/view/castle.js), [view.js](game-110/js/view/view.js)). [browsertest.mjs](game-110/dev/browsertest.mjs) walks the biggest visitor along every room's lane checking for walls and furniture, and follows a Ballroom visitor checking it never leaves the Ballroom and that the gate is up while it is in the doorway; both fail without the fix. Reported by a player.
 - **Doom & Doilies** (game-110) v1.0.1: a gingerbread golem stood half inside the kitchen counter. Minion spots were scattered over the floor without knowing where the furniture was, so the back row could land inside the counter or the hearth (and in other rooms inside the sewing table, the stage or the organ, with living portraits hung over a window). The castle now measures every piece of furniture, décor and window in a room as a box and keeps each minion's sprite, with room for its bob, hop or flutter, clear of all of them ([layout.js](game-110/js/view/layout.js), [castle.js](game-110/js/view/castle.js)). Décor also popped in by scaling about the middle of the room, so a piece briefly slid outwards; it now grows in place. [simtest.mjs](game-110/dev/simtest.mjs) checks the slot layout against a counter and a hearth, and [browsertest.mjs](game-110/dev/browsertest.mjs) buys seven of every minion and every piece of décor and checks no sprite intersects anything (it fails without the fix). Reported from a screenshot.
 
 ### Added
